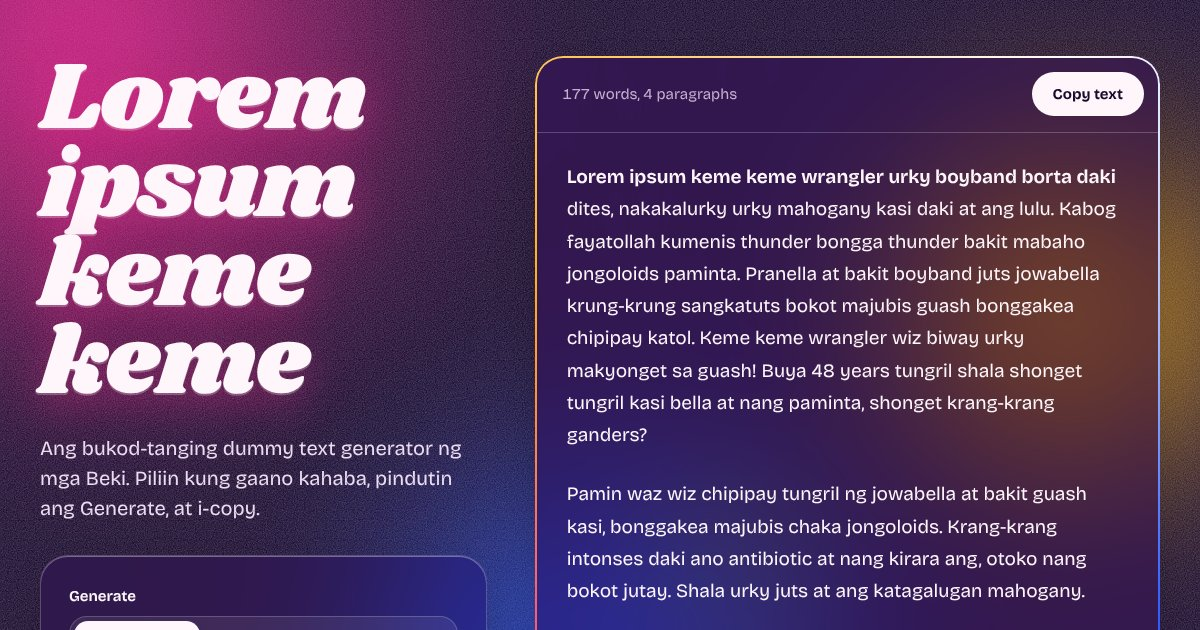
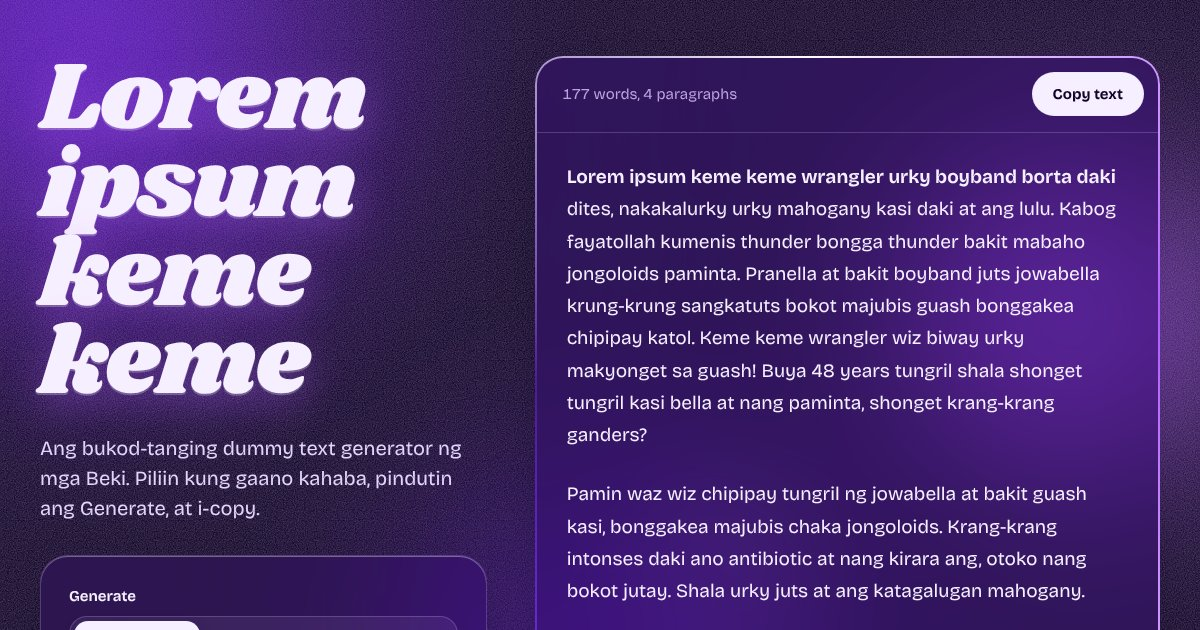
Monochrome palette: hot pink on glass (light), purples (dark)
Theme-driven hue tokens (--hue-1..4, --btn, --done-*) replace the
magenta/mango/kobalt mix; favicon, touch icon and OG image updated.

Claude-Session: https://claude.ai/code/session_01GXb2kGCugauigsSaM3QGaw

diff --git a/src/styles/glass.css b/src/styles/glass.css
@@ -1,20 +1,13 @@
 /*
- * bekiipsum.com — "beki pageant stage" glassmorphism.
- * Frosted panels float over slow stage lights (magenta, mango, kobalt). One panel — the
+ * bekiipsum.com — "beki pageant stage" glassmorphism, monochrome per theme.
+ * Frosted panels float over slow stage lights. One panel — the
  * generator output — gets the iridescent edge; everything else stays quiet.
  * Sizes in rem: CoreFramework sets html to 62.5%, so 1rem = 10px.
  */
 
 /* ---------- tokens ---------- */
+/* Monochrome by theme: hot pink on glass (light), shades of purple (dark). */
 :root {
-  --gabi: #1a0b2e; /* stage (night) */
-  --blush: #fce4f1; /* stage (day) */
-  --bongga: #ff2e93; /* magenta */
-  --mango: #ffb21a;
-  --kobalt: #2e5bff;
-  --calamansi: #b6f23a;
-  --ink: #2a0f3d;
-
   --font-display: "Shrikhand", "Cooper Black", Georgia, serif;
   --font-body: "Bricolage Grotesque Variable", "Bricolage Grotesque", system-ui, sans-serif;
 
@@ -25,39 +18,59 @@
   --gutter: clamp(1.6rem, 4vw, 4rem);
 }
 
-/* Day stage (light) */
+/* Light: hot pink */
 :root,
 :root.cf-theme-light {
-  --stage: var(--blush);
-  --text-strong: var(--ink);
-  --text: #4a2a5c;
-  --text-soft: #6e4f80;
-  --glass-fill: rgba(255, 255, 255, 0.52);
-  --glass-fill-strong: rgba(255, 255, 255, 0.7);
-  --glass-line: rgba(255, 255, 255, 0.85);
-  --glass-shade: rgba(122, 24, 92, 0.16);
-  --control-fill: rgba(255, 255, 255, 0.6);
-  --control-line: rgba(42, 15, 61, 0.16);
-  --light-strength: 0.75;
-  --accent-text: #c4005f; /* magenta dark enough for text on glass */
-  --focus: #2e5bff;
+  --stage: #ffe3f0;
+  --hue-1: #ff1f8f; /* hot pink */
+  --hue-2: #ff6eb4; /* pink */
+  --hue-3: #ff8cc6; /* light hot pink */
+  --hue-4: #d4006a; /* deep rose */
+  --text-strong: #5c0031;
+  --text: #7a1446;
+  --text-soft: #9c3d6a;
+  --glass-fill: rgba(255, 255, 255, 0.5);
+  --glass-fill-strong: rgba(255, 255, 255, 0.66);
+  --glass-line: rgba(255, 255, 255, 0.9);
+  --glass-shade: rgba(212, 0, 106, 0.2);
+  --control-fill: rgba(255, 255, 255, 0.62);
+  --control-line: rgba(212, 0, 106, 0.2);
+  --light-strength: 1;
+  --accent-text: #d4006a;
+  --focus: #b0005a;
+  --btn: linear-gradient(100deg, #ff1f8f, #ff4fa3 55%, #ff86c2);
+  --btn-glow: rgba(255, 31, 143, 0.55);
+  --btn-text-shadow: rgba(140, 0, 70, 0.4);
+  --done-bg: #d4006a;
+  --done-text: #fff;
+  --headline-glow: rgba(255, 31, 143, 0.3);
 }
 
-/* Night stage (dark) */
+/* Dark: purples */
 :root.cf-theme-dark {
-  --stage: var(--gabi);
-  --text-strong: #fff6fb;
-  --text: #ecdcf2;
-  --text-soft: #c4aed0;
-  --glass-fill: rgba(40, 14, 66, 0.42);
-  --glass-fill-strong: rgba(48, 18, 78, 0.6);
-  --glass-line: rgba(255, 255, 255, 0.22);
-  --glass-shade: rgba(5, 0, 15, 0.45);
-  --control-fill: rgba(255, 255, 255, 0.08);
-  --control-line: rgba(255, 255, 255, 0.2);
-  --light-strength: 0.9;
-  --accent-text: #ff7ab8;
-  --focus: var(--calamansi);
+  --stage: #13052a;
+  --hue-1: #7b2ff7; /* violet */
+  --hue-2: #b05cff; /* orchid purple */
+  --hue-3: #4c1d95; /* deep indigo-purple */
+  --hue-4: #d9a8ff; /* lilac */
+  --text-strong: #f6efff;
+  --text: #e2d4fa;
+  --text-soft: #b9a3dd;
+  --glass-fill: rgba(42, 14, 82, 0.42);
+  --glass-fill-strong: rgba(48, 18, 96, 0.58);
+  --glass-line: rgba(226, 204, 255, 0.22);
+  --glass-shade: rgba(6, 0, 20, 0.5);
+  --control-fill: rgba(226, 204, 255, 0.08);
+  --control-line: rgba(226, 204, 255, 0.22);
+  --light-strength: 0.85;
+  --accent-text: #d4b0ff;
+  --focus: #e9d5ff;
+  --btn: linear-gradient(100deg, #7b2ff7, #9a46fb 55%, #c07bff);
+  --btn-glow: rgba(123, 47, 247, 0.65);
+  --btn-text-shadow: rgba(40, 0, 90, 0.45);
+  --done-bg: #e9d5ff;
+  --done-text: #2a0c5a;
+  --headline-glow: rgba(176, 92, 255, 0.4);
 }
 
 /* CoreFramework tokens the shared blocks read */
@@ -67,7 +80,7 @@
   --bg-body: var(--stage);
   --text-title: var(--text-strong);
   --text-body: var(--text);
-  --primary: var(--bongga);
+  --primary: var(--hue-1);
   --border-primary: var(--glass-line);
   --text-m: 1.8rem;
   --text-l: 2.2rem;
@@ -102,7 +115,7 @@ a {
   color: inherit;
 }
 ::selection {
-  background: var(--bongga);
+  background: var(--hue-1);
   color: #fff;
 }
 :focus-visible {
@@ -163,7 +176,7 @@ a {
   height: 62vmax;
   left: -18vmax;
   top: -22vmax;
-  background: radial-gradient(circle at 40% 40%, var(--bongga), transparent 66%);
+  background: radial-gradient(circle at 40% 40%, var(--hue-1), transparent 66%);
   animation: drift-a 38s ease-in-out infinite alternate;
 }
 .light-mango {
@@ -171,7 +184,7 @@ a {
   height: 46vmax;
   right: -12vmax;
   top: 6vh;
-  background: radial-gradient(circle at 50% 50%, var(--mango), transparent 64%);
+  background: radial-gradient(circle at 50% 50%, var(--hue-2), transparent 64%);
   animation: drift-b 44s ease-in-out infinite alternate;
 }
 .light-kobalt {
@@ -179,7 +192,7 @@ a {
   height: 58vmax;
   left: 22vw;
   bottom: -34vmax;
-  background: radial-gradient(circle at 50% 50%, var(--kobalt), transparent 66%);
+  background: radial-gradient(circle at 50% 50%, var(--hue-3), transparent 66%);
   animation: drift-c 50s ease-in-out infinite alternate;
 }
 .light-calamansi {
@@ -187,7 +200,7 @@ a {
   height: 18vmax;
   right: 18vw;
   bottom: 8vh;
-  background: radial-gradient(circle, var(--calamansi), transparent 70%);
+  background: radial-gradient(circle, var(--hue-4), transparent 70%);
   opacity: calc(var(--light-strength) * 0.45);
   animation: drift-b 30s ease-in-out infinite alternate-reverse;
 }
@@ -235,7 +248,7 @@ a {
   inset: 0;
   padding: 2px;
   border-radius: inherit;
-  background: conic-gradient(from 210deg, var(--bongga), var(--mango), #fff, var(--kobalt), var(--bongga));
+  background: conic-gradient(from 210deg, var(--hue-1), var(--hue-3), #fff, var(--hue-2), var(--hue-4), var(--hue-1));
   -webkit-mask: linear-gradient(#000 0 0) content-box, linear-gradient(#000 0 0);
   -webkit-mask-composite: xor;
   mask: linear-gradient(#000 0 0) content-box exclude, linear-gradient(#000 0 0);
@@ -330,7 +343,7 @@ a {
   color: var(--text-strong);
   text-wrap: balance;
   /* the headline is lit by the stage, not painted */
-  text-shadow: 0 0.2rem 0 rgba(255, 255, 255, 0.25), 0 1.2rem 4rem rgba(255, 46, 147, 0.35);
+  text-shadow: 0 0.2rem 0 rgba(255, 255, 255, 0.25), 0 1.2rem 4rem var(--headline-glow);
 }
 .display-s {
   font-size: clamp(4rem, 6vw, 6.4rem);
@@ -423,7 +436,7 @@ select {
 }
 input[type="range"] {
   width: 100%;
-  accent-color: var(--bongga);
+  accent-color: var(--hue-1);
 }
 .toggles {
   display: grid;
@@ -441,7 +454,7 @@ input[type="range"] {
   width: 2rem;
   height: 2rem;
   margin: 0;
-  accent-color: var(--bongga);
+  accent-color: var(--hue-1);
   flex: none;
 }
 .btn-gora {
@@ -452,14 +465,14 @@ input[type="range"] {
   padding: 0 3.2rem;
   border: 0;
   border-radius: 999px;
-  background: linear-gradient(100deg, var(--bongga), #ff5a6e 55%, var(--mango));
+  background: var(--btn);
   color: #fff;
   font-family: var(--font-display);
   font-size: 2.2rem;
   letter-spacing: 0.01em;
   text-decoration: none;
-  text-shadow: 0 1px 0 rgba(120, 0, 60, 0.4);
-  box-shadow: inset 0 1px 0 rgba(255, 255, 255, 0.5), 0 1.4rem 3rem -1.2rem rgba(255, 46, 147, 0.75);
+  text-shadow: 0 1px 0 var(--btn-text-shadow);
+  box-shadow: inset 0 1px 0 rgba(255, 255, 255, 0.5), 0 1.4rem 3rem -1.2rem var(--btn-glow);
   cursor: pointer;
   transition: transform 0.15s ease, box-shadow 0.15s ease;
 }
@@ -506,8 +519,8 @@ input[type="range"] {
   transition: background 0.2s ease, color 0.2s ease;
 }
 .btn-copy.is-done {
-  background: var(--calamansi);
-  color: var(--gabi);
+  background: var(--done-bg);
+  color: var(--done-text);
 }
 .output-text {
   flex: 1;

diff --git a/README.md b/README.md
@@ -27,7 +27,7 @@ starts with "Lorem ipsum keme keme", and wrap the output in `<p>` tags. The sett
 
 ## Design
 
-Glassmorphism on a "pageant stage": frosted panels over slow magenta, mango and kobalt lights. Shrikhand is the
+Glassmorphism on a "pageant stage": frosted panels over slow-drifting lights. It is monochrome per theme: hot pink on glass in light mode, shades of purple in dark mode. Shrikhand is the
 display face and Bricolage Grotesque the text face. Light and dark both follow the device, and there's a toggle
 in the header. Every token is in `src/styles/glass.css`.
 
